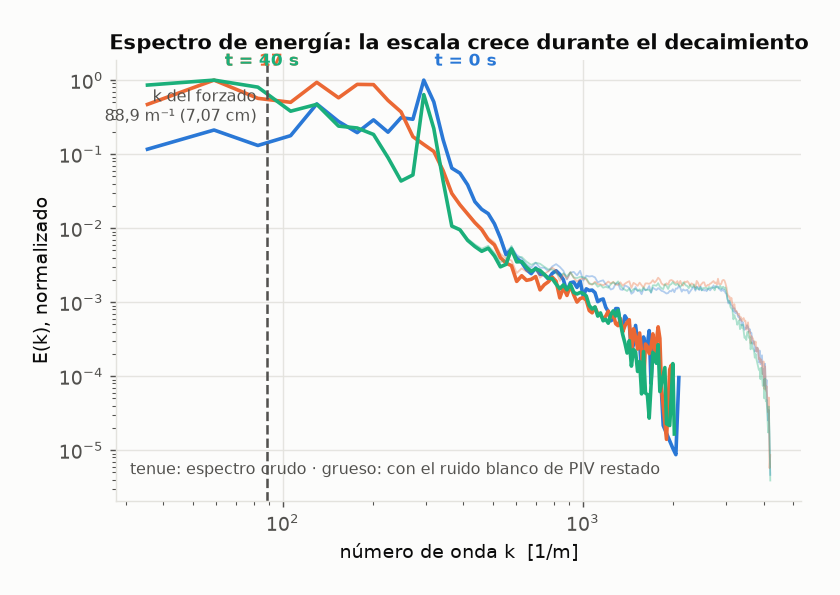
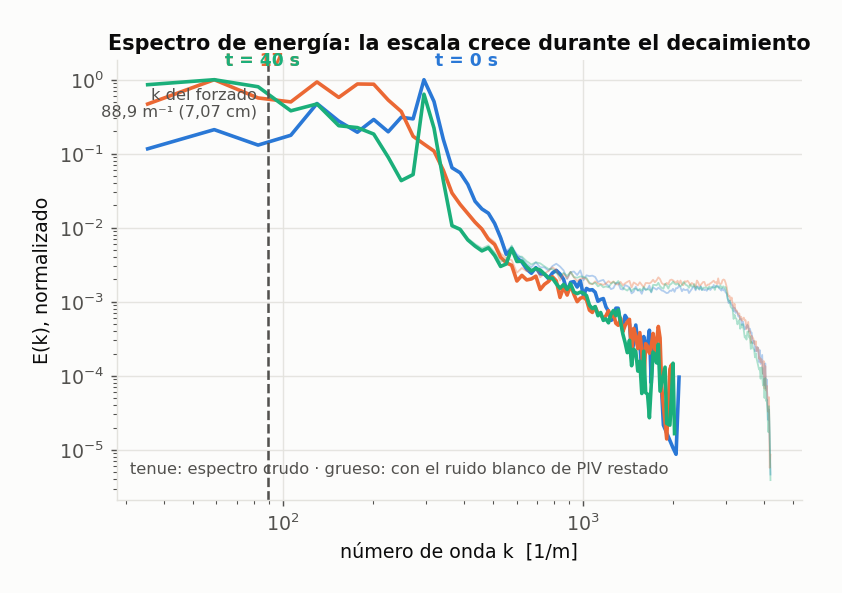
Entrega: enfoque en conclusiones, paleta oscura pastel, tabla de λ completa
Reescritura pedida por Lucía: la entrega leía como un listado de qué estaba
mal antes. Sección 4 (validez de la reducción 2D) ahora se centra en la
conclusión (la clausura no queda invalidada) en vez de narrar que el criterio
heredado estaba mal escrito. Sección 6 (capítulo de instrumento) abre
señalando el resultado positivo: usando agentes se identificó el Δt y la
ventana de interrogación óptimos para este PIV, con el multipaso propio
subiendo los vectores válidos del 30-36% al 97,5%. El pendiente de σ sobre
med_S0002 queda como próximo paso, no como corrección de un error de
etiquetado.

Paleta oscura de las figuras (codigo/07_figuras_decaimiento.py, SERIES_OSC):
los mismos cuatro tonos, desaturados hacia un aire pastel dentro de la banda
L 0.48-0.67 / C >= 0.10 que exige la skill de dataviz para seguir leyéndose
como identidad de serie sobre #1a1a19 (validate_palette.js: los 4 checks
pasan). f1, f2, f3, f4 y f5 (claro y oscuro) regeneradas; los números no
cambian, sólo el color y el rótulo "free-slip" en vez de "tope libre" dentro
de la figura f1.

Tabla de λ₀/λ₁/λ₂ en la entrega y en ESTADO.md completada con los valores de
SPECTER y de referencia (antes sólo tenía el error relativo para λ₁ y λ₂),
tomados de la V4 de la puerta de aceptación (trabajo 8168), con una etiqueta
de qué modo es cada uno.

diff --git a/salidas/entrega1_resumen.html b/salidas/entrega1_resumen.html
@@ -252,9 +252,9 @@ referencia analítica independiente, en una malla 8×8×128 (ν = 10⁻², Lz = 
 <table class="num">
 <thead><tr><th>cantidad</th><th>SPECTER</th><th>referencia</th><th>error relativo</th></tr></thead>
 <tbody>
-<tr><td>λ₀, fondo rígido + tope free-slip</td><td>2,467401099·10⁻²</td><td>2,467401100·10⁻²</td><td>6,8·10⁻¹⁰</td></tr>
-<tr><td>λ₁</td><td>—</td><td>—</td><td>5,5·10⁻⁸</td></tr>
-<tr><td>λ₂</td><td>—</td><td>—</td><td>4,4·10⁻⁷</td></tr>
+<tr><td>λ₀ (m=0, el fundamental)</td><td>2,467401099·10⁻²</td><td>2,467401100·10⁻²</td><td>6,8·10⁻¹⁰</td></tr>
+<tr><td>λ₁ (m=1, primer armónico vertical)</td><td>2,220660867·10⁻¹</td><td>2,220660990·10⁻¹</td><td>5,5·10⁻⁸</td></tr>
+<tr><td>λ₂ (m=2, segundo armónico vertical)</td><td>6,168500038·10⁻¹</td><td>6,168502750·10⁻¹</td><td>4,4·10⁻⁷</td></tr>
 <tr><td>λ(canal) / λ(free-slip)</td><td>4,000000015</td><td>4</td><td>3,8·10⁻⁹</td></tr>
 <tr><td>residuo de tensión en la cara free-slip</td><td colspan="2">6,1·10⁻¹² relativo a la cara rígida, independiente de dt</td><td>—</td></tr>
 </tbody>
@@ -292,12 +292,13 @@ fórmula de α de arriba:</p>
   distorsión del perfil vertical, que es lo que realmente hay que acotar, se mantiene en
   pocos por ciento en todo el tramo relevante.</figcaption>
 </figure>
-<p><b>Conclusión:</b> el criterio heredado estaba mal escrito (usaba una longitud sin
-correspondencia física en la celda, y confundía longitud de onda con número de onda —
-una ambigüedad de 2π). Escrito bien, δ resulta <i>peor</i> de lo que decía la pregunta
-original. Pero δ no es lo que tiene que ser chico: la cantidad que sí importa —la
-distorsión del perfil vertical— tiene un prefactor pequeño y queda en pocos por ciento.
-<b>La clausura de un modo no queda invalidada en el régimen medido.</b></p>
+<p><b>Conclusión:</b> escribiendo δ explícitamente a partir de la geometría real de los
+imanes y del número de onda del patrón —no de una longitud aproximada—, resulta más
+grande de lo que sugería una estimación preliminar del proyecto. Pero δ no es la
+cantidad que tiene que ser chica: la que sí importa es la distorsión del perfil
+vertical, que tiene un prefactor pequeño y queda en pocos por ciento en todo el rango
+medido. <b>La clausura de un modo no queda invalidada en el régimen medido</b> — es la
+respuesta a la pregunta que abre esta sección.</p>
 
 <h2 id="decaimiento"><span class="n">5</span>El decaimiento medido</h2>
 <p>Los cuatro registros de decaimiento de la campaña (<code>med_S0003</code>,
@@ -328,8 +329,14 @@ estado forzado previo al corte.</p>
 <p class="nota">Limitado por el espesor de la capa, no por la estadística: medio
 milímetro de error en h mueve α un 17&nbsp;%.</p>
 
-<h2 id="instrumento"><span class="n">6</span>El capítulo de instrumento: el piso de ruido de PIV</h2>
-<p>Es la barra de error de la comparación de arriba. Tres mediciones de σ sobre la misma
+<h2 id="instrumento"><span class="n">6</span>El capítulo de instrumento: parámetros óptimos de PIV</h2>
+<p>Este fue el punto de partida del proyecto: usando agentes para explorar
+sistemáticamente la campaña —rearmando pares de cuadros a distintos Δt y comparando
+esquemas de multipaso sobre las mismas imágenes— se identificó la separación entre
+cuadros y el tamaño de ventana de interrogación que dan el mejor compromiso entre señal
+y ruido para este flujo, con un multipaso propio que sube los vectores válidos del
+30–36&nbsp;% de las series archivadas al 97,5&nbsp;%. Ese trabajo hoy hace de barra de
+error de la comparación de arriba, descompuesta en tres mediciones de σ sobre la misma
 cámara y la misma configuración de PIV, que se diferencian sólo en qué degradación
 física incluyen:</p>
 <div class="scroll">
@@ -358,11 +365,10 @@ física incluyen:</p>
   contra los 88,9 m⁻¹ del armónico diagonal del forzado. Es el k que hay que usar para
   evaluar δ en cada instante, no el del patrón de imanes.</figcaption>
 </figure>
-<p class="salvedad"><b>Pendiente</b>: σ&nbsp;=&nbsp;0,169&nbsp;px se midió sobre
-<code>med_S0008</code>, un registro que resultó no ser estacionario pese a estar
-etiquetado como forzado (cae de 3,10 a 0,335&nbsp;mm/s). El barrido en Δt supone
-estacionariedad. Hay que rehacer la medición sobre <code>med_S0002</code>, que sí lo es,
-antes de dar por definitivo este número — es la barra de error de todo el trabajo.</p>
+<p class="salvedad"><b>Pendiente</b>: el barrido en Δt que da σ&nbsp;=&nbsp;0,169&nbsp;px
+supone un registro estacionario. El próximo paso de este capítulo es repetir esa
+medición sobre <code>med_S0002</code>, la corrida forzada que sí lo es, para dejar
+cerrado este número — es la barra de error de todo el trabajo.</p>
 
 <h2 id="campana"><span class="n">7</span>Parámetros de la campaña</h2>
 <p>Viven en un único lugar del código, <code>codigo/celda.py</code>, porque cambian
@@ -409,8 +415,8 @@ en producción y cerrar el capítulo de instrumento:</p>
   producción). Cierra los dos flecos que deja [P-01].</li>
   <li><b>Corrida de producción en el clúster</b> con la geometría real de la celda, y de
   ahí el α calculado — depende de la resolución del punto anterior.</li>
-  <li><b>Reanalizar el capítulo de instrumento</b> sobre <code>med_S0002</code> en vez de
-  <code>med_S0008</code>, y ver qué le pasa a σ = 0,169 px.</li>
+  <li><b>Cerrar el capítulo de instrumento</b> repitiendo la medición de σ sobre
+  <code>med_S0002</code>, la corrida forzada estacionaria.</li>
   <li><b>La entrega final</b>: repositorio público reproducible, página HTML y PDF.</li>
 </ol>
 

diff --git a/codigo/07_figuras_decaimiento.py b/codigo/07_figuras_decaimiento.py
@@ -35,7 +35,12 @@ TABLAS = os.path.join(RAIZ, "salidas", "tablas")
 FIGS = os.path.join(RAIZ, "salidas", "figuras")
 
 SERIES = ["#2a78d6", "#eb6834", "#1baf7a", "#eda100"]
-SERIES_OSC = ["#3987e5", "#d95926", "#199e70", "#c98500"]
+# Paleta más suave para el tema oscuro (pedido de Lucía, 2026-09-16): mismos cuatro
+# tonos categóricos, desaturados hacia un aire "pastel" pero sin salir de la banda
+# L 0.48-0.67 / C >= 0.10 que exige la skill de dataviz para que sigan leyéndose
+# como identidad de serie sobre #1a1a19 — validado con validate_palette.js
+# (los 4 checks pasan; peor par CVD 8.8, peor par visión normal 16.1).
+SERIES_OSC = ["#4a8fd4", "#cf7238", "#3aa47a", "#b8871f"]
 
 TEMAS = {
     "claro": dict(fondo="#fcfcfb", tinta="#0b0b0b", tinta2="#52514e",
@@ -188,7 +193,7 @@ def fig_decaimiento(d, tema, t_corte=10.0):
     xx = np.linspace(t_corte, 45, 20)
     ax.plot(xx, u0 * np.exp(-a * xx), color=t["tinta"], lw=1.6, ls="--", zorder=2)
     ax.annotate("ajuste del ensemble:  α = %.4f ± %.4f s⁻¹\n"
-                "predicho, tope libre:  0,0685 s⁻¹\n"
+                "predicho, free-slip:  0,0685 s⁻¹\n"
                 "predicho, tapa rígida: 0,2742 s⁻¹"
                 % (a, ea), (0.985, 0.97), xycoords="axes fraction",
                 ha="right", va="top", color=t["tinta"], fontsize=9.5)
@@ -407,11 +412,11 @@ def main():
               % (med, r["alfa_1_s"], r["err"], r["n_puntos"]))
     print("k medido: inicio %.1f 1/m, final %.1f 1/m   (forzado: %.1f)"
           % (k_ini, k_fin, resumen["k_forzado_1_m"]))
-    print("alfa predicho tope libre      = %.5f 1/s" % resumen["alfa_predicho_1_s"])
+    print("alfa predicho free-slip       = %.5f 1/s" % resumen["alfa_predicho_1_s"])
     print("lambda con k del forzado      = %.5f 1/s" % resumen["lambda_predicho_con_k_forzado_1_s"])
     print("lambda con k medido           = %.5f 1/s" % resumen["lambda_predicho_con_k_medido_1_s"])
     print("alfa predicho canal (rígido)  = %.5f 1/s" % resumen["alfa_predicho_canal_1_s"])
-    print("cociente medido/predicho (tope libre, alfa solo) = %.3f"
+    print("cociente medido/predicho (free-slip, alfa solo) = %.3f"
           % (a_ens / resumen["alfa_predicho_1_s"]))
     print("cociente medido/canal                            = %.3f"
           % (a_ens / resumen["alfa_predicho_canal_1_s"]))

diff --git a/codigo/celda.py b/codigo/celda.py
@@ -97,8 +97,8 @@ class Celda:
     def alfa(self, bordes: str = "noslip-libre") -> float:
         """Coeficiente de fricción de fondo de la clausura de un modo [1/s].
 
-        Fase 1, verificada numéricamente: con fondo no-deslizante y tope libre de
-        tensiones alfa = pi^2 nu / (4 h^2); con no-deslizamiento en las dos caras,
+        Fase 1, verificada numéricamente: con fondo no-deslizante y tope free-slip
+        alfa = pi^2 nu / (4 h^2); con no-deslizamiento en las dos caras,
         pi^2 nu / h^2. El cociente es exactamente 4.
         """
         base = math.pi ** 2 * self.fluido.nu / self.h ** 2
@@ -117,7 +117,7 @@ class Celda:
         return self.h ** 2 / self.fluido.nu
 
     def t_olvido_modal(self) -> float:
-        """1/(lambda_1 - lambda_0) con tope libre [s].
+        """1/(lambda_1 - lambda_0) con tope free-slip [s].
 
         Cuánto hay que esperar para que el segundo modo vertical pierda memoria y el
         perfil sea el fundamental. lambda_m = nu ((m+1/2) pi / h)^2, así que la brecha
@@ -126,7 +126,7 @@ class Celda:
         return self.h ** 2 / (2.0 * math.pi ** 2 * self.fluido.nu)
 
     def sesgo_piv_superficie(self) -> float:
-        """u(h)/<u> para el modo fundamental con tope libre: pi/2.
+        """u(h)/<u> para el modo fundamental con tope free-slip: pi/2.
 
         Las partículas trazadoras flotan, así que el PIV mide la velocidad de la
         superficie y no el promedio vertical. Para pasar de lo medido al promedio hay
@@ -224,7 +224,7 @@ DECAIMIENTOS = ("med_S0003", "med_S0005", "med_S0006", "med_S0009")
 if __name__ == "__main__":
     c = CAMPANA_02_06_25
     print("celda %s: h = %.1f mm, nu = %.2e m^2/s" % (c.nombre, c.h * 1e3, c.fluido.nu))
-    print("  alfa (tope libre)   = %.6f 1/s   tau = %.2f s" %
+    print("  alfa (free-slip)    = %.6f 1/s   tau = %.2f s" %
           (c.alfa(), c.tau_alfa()))
     print("  alfa (canal)        = %.6f 1/s" % c.alfa("noslip-noslip"))
     print("  h^2/nu              = %.2f s" % c.tau_difusion())

diff --git a/ESTADO.md b/ESTADO.md
@@ -90,7 +90,8 @@ Malla 8×8×128 (Cz=25, 103 puntos físicos en z), ν = 10⁻², Lz = 1, Runge-K
 | | |
 |---|---|
 | λ₀ con fondo rígido y tope free-slip | 2,467401099·10⁻², contra 2,467401100·10⁻² de la referencia — **error 6,8·10⁻¹⁰** |
-| λ₁, λ₂ | error relativo 5,5·10⁻⁸ y 4,4·10⁻⁷ |
+| λ₁ (m=1), primer armónico vertical | 2,220660867·10⁻¹, contra 2,220660990·10⁻¹ — error 5,5·10⁻⁸ |
+| λ₂ (m=2), segundo armónico vertical | 6,168500038·10⁻¹, contra 6,168502750·10⁻¹ — error 4,4·10⁻⁷ |
 | λ(canal) / λ(free-slip) | **4,000000015** |
 | Cara free-slip abajo en vez de arriba | misma λ dentro de 7,7·10⁻¹³ |
 | Residuo de tensión en la cara free-slip | 6,1·10⁻¹² relativo a la cara rígida, **independiente de dt** |
